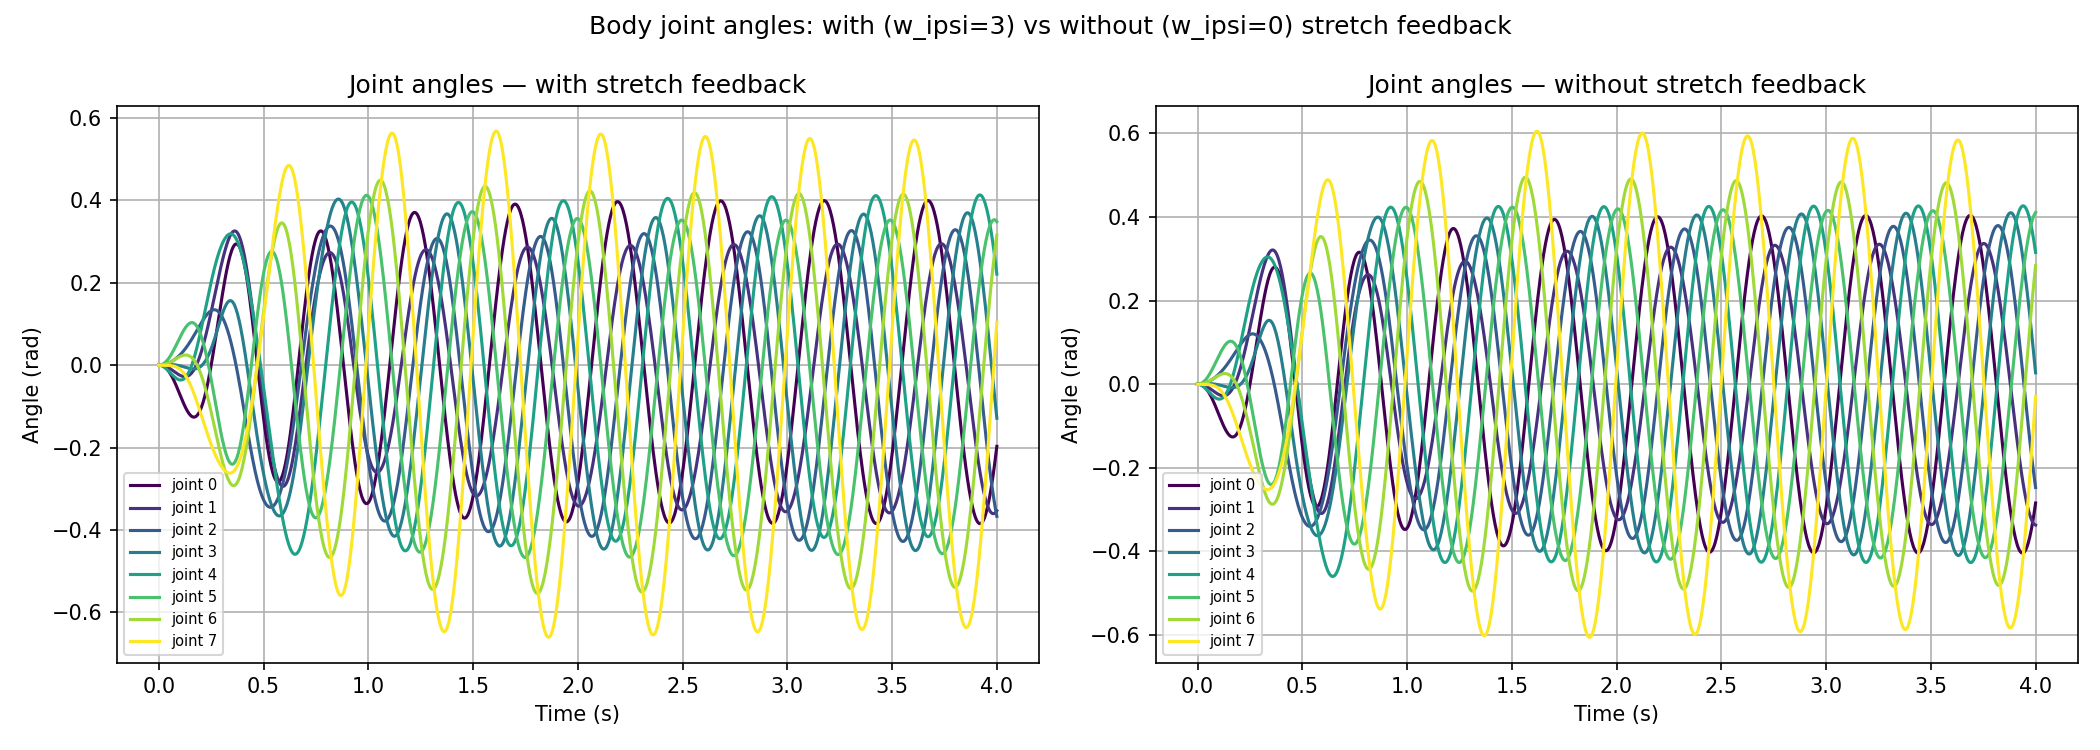
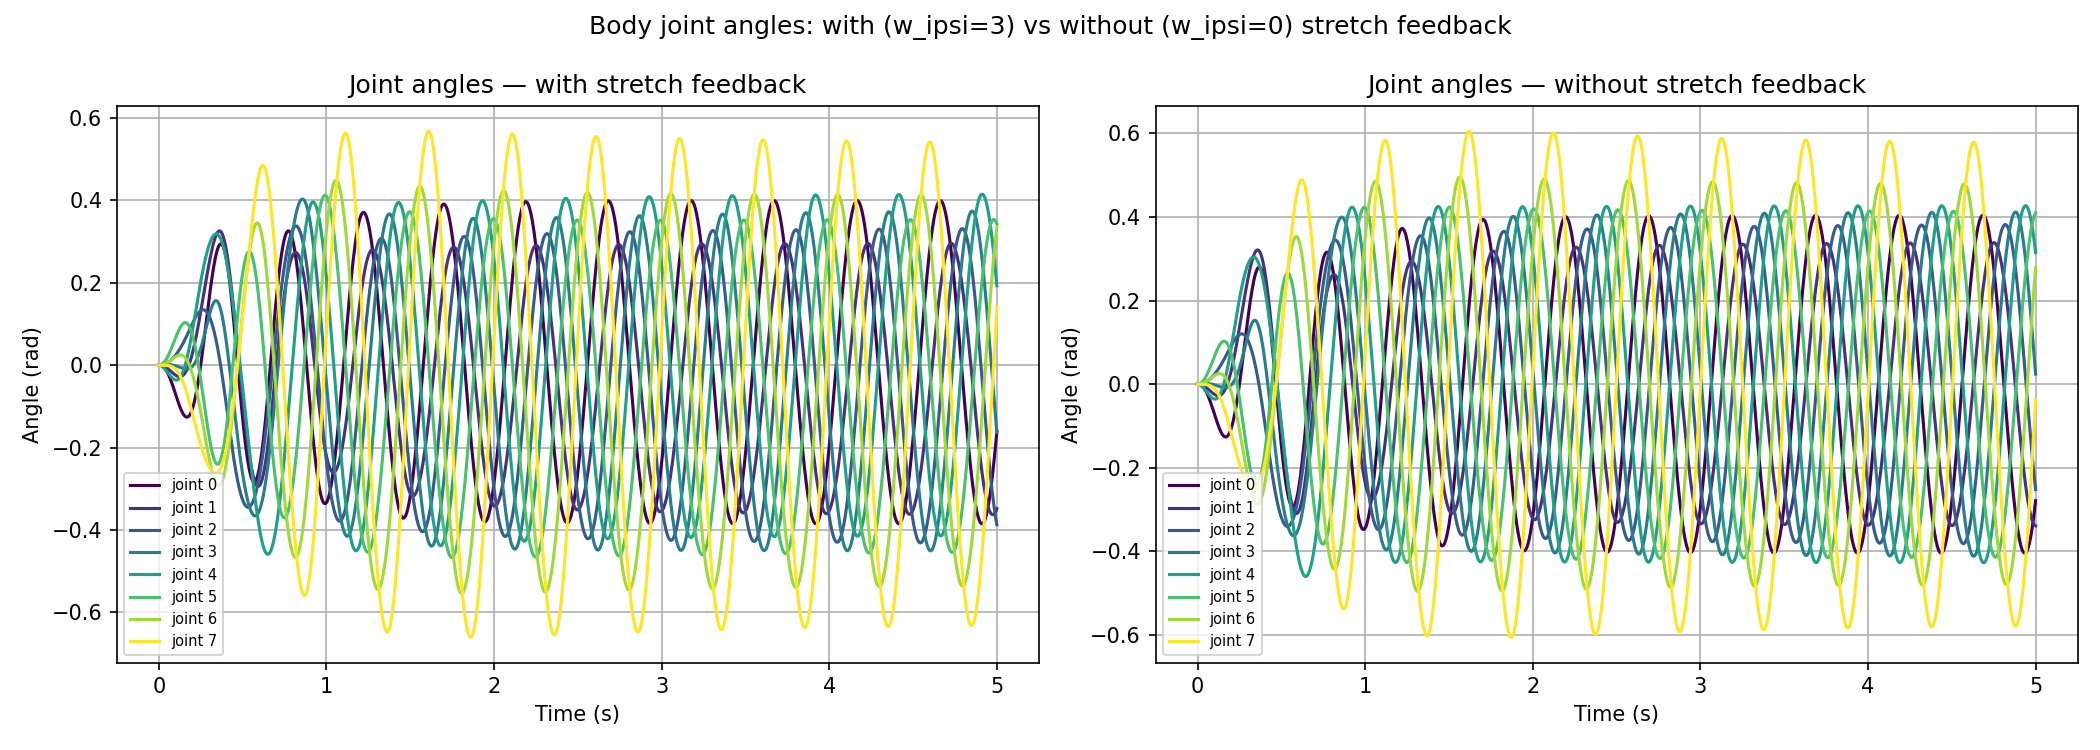
update

diff --git a/Project1/Python/cmc_controllers/CPG_controller.py b/Project1/Python/cmc_controllers/CPG_controller.py
@@ -251,14 +251,25 @@ class CPGNetwork(NeuralNetwork):
 
         ##### code estelle ######
         if self.w_ipsi is not None:
+            '''
             stretch_left = np.maximum(0, stretch_value)   # left side: positive angles
             stretch_right = np.maximum(0, -stretch_value)  # right side: negative angles
             stretch_full = np.zeros(self.n_oscillators)
             stretch_full[:self.n_body_joints] = stretch_left
             stretch_full[self.n_body_joints:] = stretch_right
+            '''
+            stretch_full = np.zeros(self.n_oscillators)
+            stretch_full[::2]  = np.maximum(0, stretch_value)   # even indices = left
+            stretch_full[1::2] = np.maximum(0, -stretch_value)  # odd indices = right
         else:
             stretch_full = np.zeros(self.n_oscillators)
 
+        # in step(), add this debug print for a few iterations
+        if iteration == 100:
+            print("drive_left:", self.drive_left)
+            print("drive_right:", self.drive_right)
+            print("nominal_freq:", self.nominal_frequencies)
+            print("nominal_amp:", self.nominal_amplitudes)
         self.solver.set_f_params(stretch_full) # on le passe dans la fonction network_ode en tant que paramètre stretch_value
 
         #pylog.warning("TODO 3.3 Disruption to sensors")

diff --git a/Project1/Python/exercise3_1.py b/Project1/Python/exercise3_1.py
@@ -410,8 +410,8 @@ def main(**kwargs):
         recording='animation3_1_with_sf.mp4',
         hdf5_name='simulation_with_sf.hdf5',
         controller_name='controller_with_sf.pkl',
-        runtime_n_iterations=1001,
-        runtime_buffer_size=1001,
+        runtime_n_iterations=5001,
+        runtime_buffer_size=5001,
         fast=fast,
         headless=headless,
     )
@@ -423,8 +423,8 @@ def main(**kwargs):
         recording='animation3_1_without_sf.mp4',
         hdf5_name='simulation_without_sf.hdf5',
         controller_name='controller_without_sf.pkl',
-        runtime_n_iterations=1001,
-        runtime_buffer_size=1001,
+        runtime_n_iterations=5001,
+        runtime_buffer_size=5001,
         fast=fast,
         headless=headless,
     )
